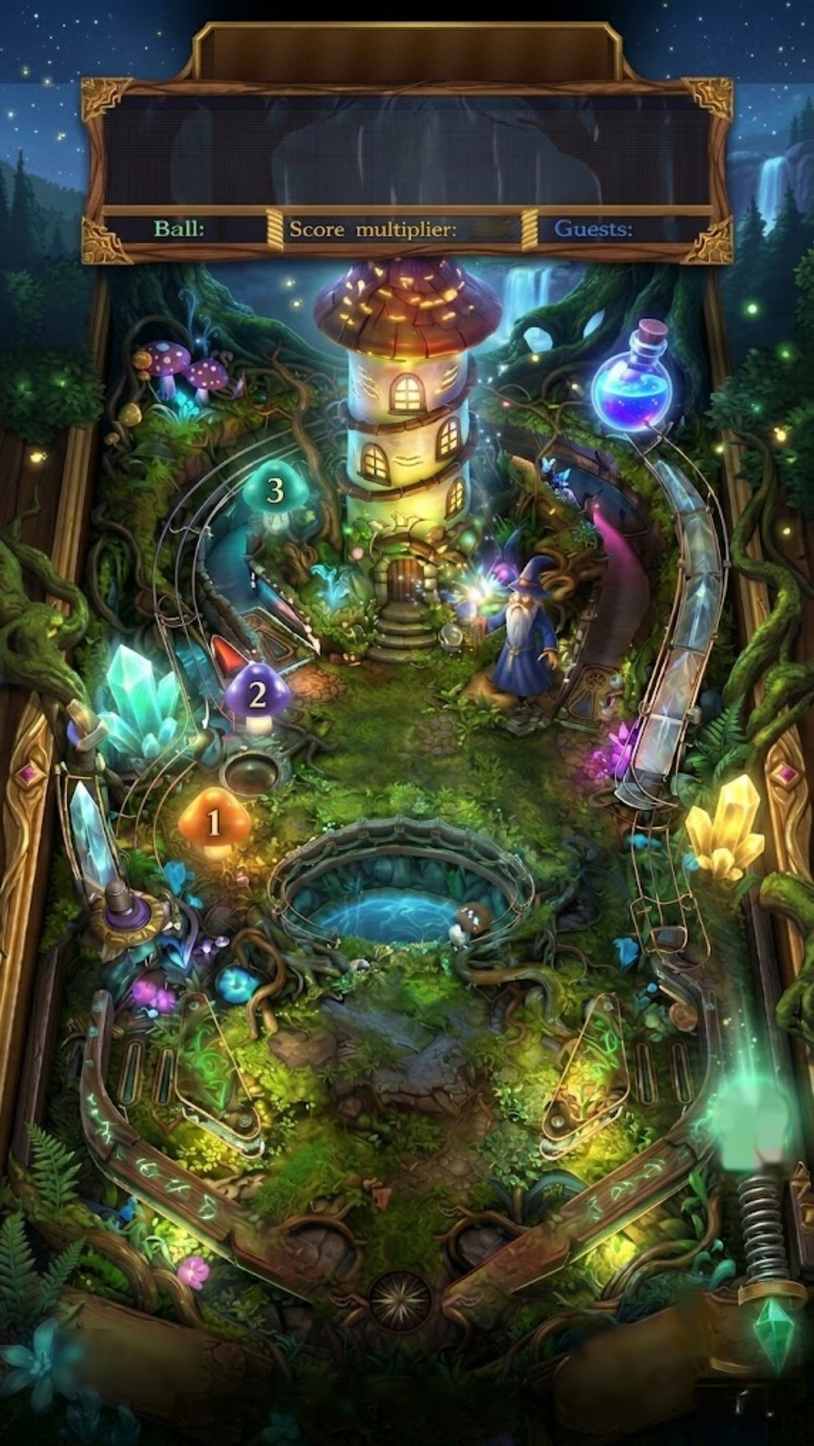
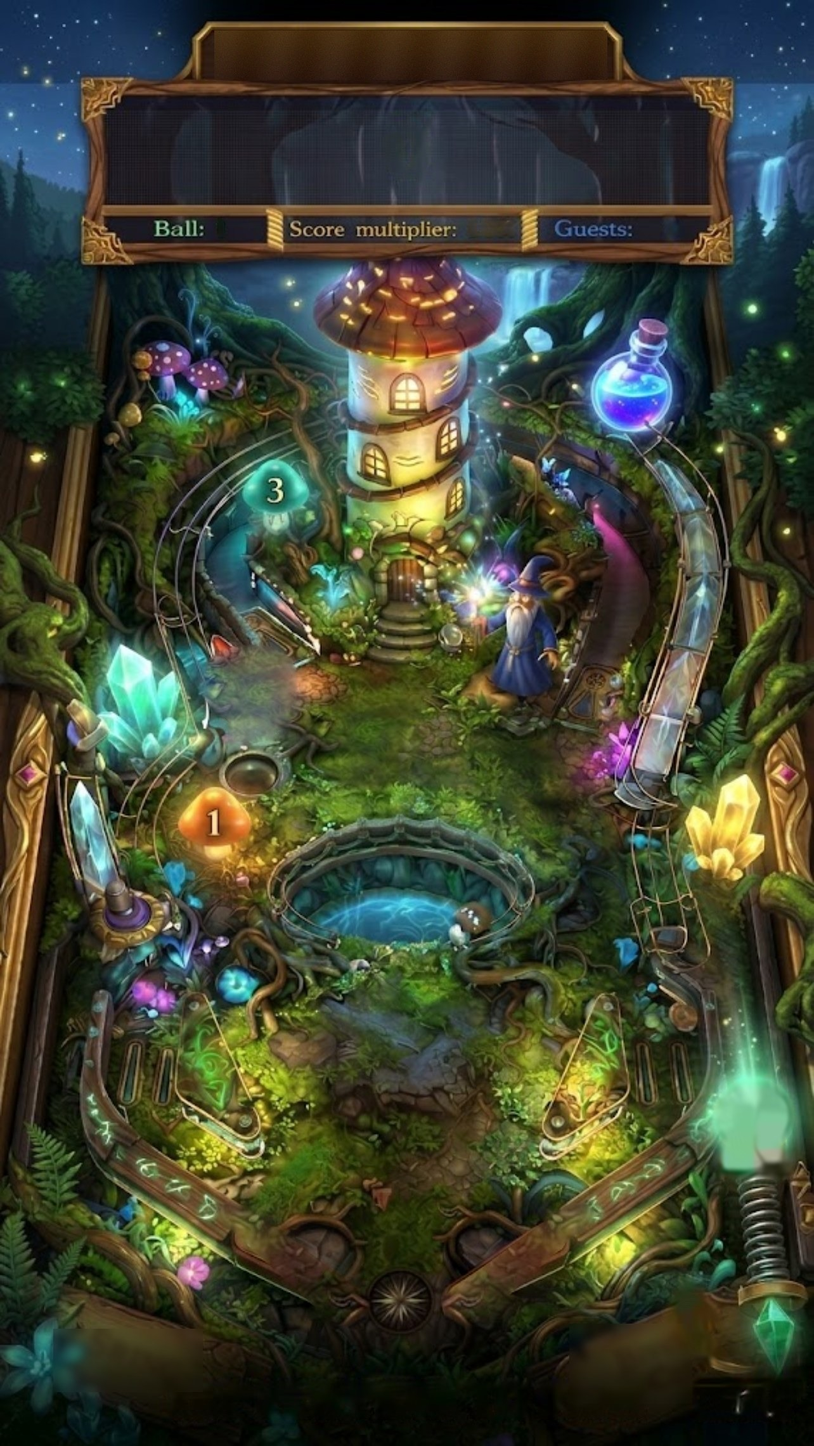
Forest Pinball Saga 1.5.1: table rebalance – mushroom 2 moves to the right
- tools/move_mush2.py: clears the old spot with a seamless clone from the painting, paints a contact
  shadow at the new spot (open stone path between the wizard and the crystal ramp), moves the sprite
- physics circle, glow spot and feature anchor moved with it; attract chase order updated
- dead-spot scan, soak, all 79 tests and the browser smoke test pass; balance: scoop catches 3.3 -> 5.0
  per 10 min (no longer shadowed by mushroom 2), no stuck balls

Claude-Session: https://claude.ai/code/session_016sxfsMBesRzzrKyrMjyWsF

Changed region(s): [[0.2492, 0.4358, 0.3738, 0.5292], [0.6542, 0.5292, 0.7165, 0.5603]]

diff --git a/saga/js/render/sprite-meta.js b/saga/js/render/sprite-meta.js
@@ -1,2 +1,2 @@
-// Generated by tools/prepare_art.py + tools/plunger_art.py – where each cut-out sprite sits in the painting.
-export const SPRITES = {"tower": {"box": [480, 405, 803, 1024], "base": [632, 1010]}, "wizard": {"box": [739, 873, 924, 1124], "base": [850, 1110]}, "mush3": {"box": [378, 712, 493, 846], "base": [440, 835]}, "mush2": {"box": [336, 1031, 455, 1156], "base": [398, 1148]}, "mush1": {"box": [278, 1244, 397, 1382], "base": [337, 1372]}, "crystal1": {"box": [153, 991, 308, 1158], "base": [230, 1150]}, "crystal2": {"box": [1073, 1238, 1210, 1408], "base": [1140, 1400]}, "potion": {"box": [931, 511, 1070, 675], "base": [1000, 665]}, "slingL": {"box": [275, 1555, 422, 1800], "base": [350, 1782]}, "slingR": {"box": [857, 1555, 1004, 1800], "base": [930, 1782]}, "pedestal": {"box": [93, 1217, 204, 1468], "base": [152, 1452]}, "flipper-l": {"box": [348, 1904, 576, 2088]}, "flipper-r": {"box": [704, 1904, 932, 2088]}, "knob": {"box": [1128, 1702, 1251, 1857], "top": 1706}, "spring": {"box": [1154, 1842, 1252, 2032]}};
+// Generated by tools/prepare_art.py + plunger_art.py + move_mush2.py – where each cut-out sprite sits in the painting.
+export const SPRITES = {"tower": {"box": [480, 405, 803, 1024], "base": [632, 1010]}, "wizard": {"box": [739, 873, 924, 1124], "base": [850, 1110]}, "mush3": {"box": [378, 712, 493, 846], "base": [440, 835]}, "mush2": {"box": [821, 1153, 940, 1278], "base": [883, 1270]}, "mush1": {"box": [278, 1244, 397, 1382], "base": [337, 1372]}, "crystal1": {"box": [153, 991, 308, 1158], "base": [230, 1150]}, "crystal2": {"box": [1073, 1238, 1210, 1408], "base": [1140, 1400]}, "potion": {"box": [931, 511, 1070, 675], "base": [1000, 665]}, "slingL": {"box": [275, 1555, 422, 1800], "base": [350, 1782]}, "slingR": {"box": [857, 1555, 1004, 1800], "base": [930, 1782]}, "pedestal": {"box": [93, 1217, 204, 1468], "base": [152, 1452]}, "flipper-l": {"box": [348, 1904, 576, 2088]}, "flipper-r": {"box": [704, 1904, 932, 2088]}, "knob": {"box": [1128, 1702, 1251, 1857], "top": 1706}, "spring": {"box": [1154, 1842, 1252, 2032]}};

diff --git a/saga/sw.js b/saga/sw.js
@@ -1,5 +1,5 @@
 // Forest Pinball Saga – offline support: the whole game (code, painting, sprites, fonts) is cached; cache-first.
-const VERSION = 'forest-saga-1.5.0';
+const VERSION = 'forest-saga-1.5.1';
 const SHELL = ['./', './art/btn-camera.png', './art/btn-pause.png', './art/ext-bottom.jpg', './art/ext-top.jpg', './art/flipper-l.png', './art/flipper-r.png', './art/playfield.jpg', './art/sprites/ball.png', './art/sprites/crystal1.png', './art/sprites/crystal2.png', './art/sprites/knob.png', './art/sprites/spring.png', './art/sprites/mush1.png', './art/sprites/mush2.png', './art/sprites/mush3.png', './art/sprites/pedestal.png', './art/sprites/potion.png', './art/sprites/slingL.png', './art/sprites/slingR.png', './art/sprites/tower.png', './art/sprites/wizard.png', './css/style.css', './fonts/cinzel-700.woff2', './fonts/cinzel-decorative-700.woff2', './fonts/orbitron-800.woff2', './icons/apple-touch-icon.png', './icons/favicon-32.png', './icons/icon-192.png', './icons/icon-512.png', './icons/icon-maskable-512.png', './index.html', './js/audio/audio.js', './js/audio/voice.js', './js/core/artmap.js', './js/core/config.js', './js/core/events.js', './js/core/physics.js', './js/core/progress.js', './js/core/rules.js', './js/core/rules/lanes.js', './js/core/rules/launch.js', './js/core/rules/saga.js', './js/core/rules/scoop.js', './js/core/rules/shots.js', './js/core/rules/ticks.js', './js/core/rules/tower.js', './js/core/sim.js', './js/core/table.js', './js/main.js', './js/render/chapters.js', './js/render/effects.js', './js/render/grade.js', './js/render/layers.js', './js/render/sprite-meta.js', './js/render/stage.js', './js/ui/help.js', './js/ui/hud.js', './js/ui/input.js', './js/ui/journal.js', './js/ui/messages.js', './js/ui/report.js', './js/ui/report-capture.js', './js/ui/sound-hooks.js', './js/ui/voice-hooks.js', './js/ui/hitstop.js', './js/ui/summary.js', './js/ui/tuning.js', './js/vendor/three.module.min.js', './js/version.js', './manifest.webmanifest'];
 
 self.addEventListener('install', (e) => {

diff --git a/saga/js/render/effects.js b/saga/js/render/effects.js
@@ -151,7 +151,7 @@ function fireflies(count) {
 // painted positions (art px) of everything that reacts
 const SPOTS = {
   mush1: { x: 337, y: 1295, r: 120, color: 0xff9a3a },
-  mush2: { x: 395, y: 1078, r: 115, color: 0xb070ff },
+  mush2: { x: 880, y: 1200, r: 115, color: 0xb070ff },
   mush3: { x: 435, y: 765, r: 110, color: 0x40ffd8 },
   crystal1: { x: 230, y: 1080, r: 150, color: 0x60fff0 },
   crystal2: { x: 1140, y: 1320, r: 140, color: 0xffe060 },
@@ -168,7 +168,7 @@ const SPOTS = {
 };
 const DRAGON_RED = 0xff4a1a;
 // attract mode: the lights chase in this order (bottom to top and back), like a real machine waiting for a player
-const ATTRACT = ['slingL', 'slingR', 'kickback', 'kickbackR', 'mush1', 'pool', 'crystal2', 'scoop', 'mush2', 'crystal1', 'wizard', 'rampA', 'mush3', 'potion'];
+const ATTRACT = ['slingL', 'slingR', 'kickback', 'kickbackR', 'mush1', 'pool', 'crystal2', 'mush2', 'scoop', 'crystal1', 'wizard', 'rampA', 'mush3', 'potion'];
 const DRAGON_GLOW = { mush1: 1, mush2: 1, mush3: 1, crystal1: 1, crystal2: 1, potion: 1, wizard: 1, rampA: 1 };
 const RUSH_IDS = ['mush1', 'mush2', 'mush3', 'crystal1', 'crystal2', 'potion'];
 const DOOR = { x: 636, y: 921, w: 64, h: 84 };

diff --git a/saga/js/core/table.js b/saga/js/core/table.js
@@ -91,7 +91,7 @@ export function buildTable() {
   const C = (id, kind, art, r, o = {}) => { const [x, y] = F(art); return { id, kind, x, y, r, e: 0.6, ...o }; };
   const circles = [
     C('mush1', 'element', [337, 1370], 0.95, { e: 0.9, kick: 'bumper' }),
-    C('mush2', 'element', [398, 1146], 0.9, { e: 0.9, kick: 'bumper' }),
+    C('mush2', 'element', [882, 1267], 0.9, { e: 0.9, kick: 'bumper' }), // moved to the right (tools/move_mush2.py)
     C('mush3', 'element', [440, 832], 0.85, { e: 0.9, kick: 'bumper' }),
     C('crystal1', 'element', [232, 1136], 1.0, { e: 0.7 }),
     C('potion', 'element', [1000, 655], 0.85, { e: 0.55 }),

diff --git a/saga/js/core/artmap.js b/saga/js/core/artmap.js
@@ -35,7 +35,7 @@ export const FEATURES = {
   tower: { base: [632, 978, 112, 44], door: [640, 926, 46, 62], roofTop: [632, 428] },
   wizard: { body: [834, 1010, 62, 96], staffOrb: [760, 946] },
   pool: [630, 1408, 212, 96],
-  mushrooms: { mush1: [335, 1300, 56], mush2: [405, 1086, 50], mush3: [432, 770, 46] },
+  mushrooms: { mush1: [335, 1300, 56], mush2: [890, 1208, 50], mush3: [432, 770, 46] },
   crystals: { crystal1: [240, 1084, 72], crystal2: [1142, 1300, 62] },
   potion: [1000, 600, 58],
   kickoutHole: [372, 1226, 42],

diff --git a/saga/index.html b/saga/index.html
@@ -5,7 +5,7 @@
   <meta name="viewport" content="width=device-width, initial-scale=1, maximum-scale=1, user-scalable=no, viewport-fit=cover">
   <title>Forest Pinball Saga</title>
   <meta name="theme-color" content="#05070a">
-  <meta name="app-version" content="1.5.0">
+  <meta name="app-version" content="1.5.1">
   <meta name="apple-mobile-web-app-capable" content="yes">
   <meta name="mobile-web-app-capable" content="yes">
   <meta name="apple-mobile-web-app-status-bar-style" content="black-translucent">

diff --git a/saga/js/version.js b/saga/js/version.js
@@ -1,2 +1,2 @@
 // App version (bumped on every delivered update).
-export const APP_VERSION = '1.5.0';
+export const APP_VERSION = '1.5.1';

diff --git a/saga/tools/move_mush2.py b/saga/tools/move_mush2.py
@@ -1,0 +1,47 @@
+"""Rebalance the table: move mushroom 2 from the crowded left side to the open stone path on the right
+(between the wizard and the crystal ramp). Run once, after prepare_art.py and plunger_art.py.
+
+- clears the old spot in playfield.jpg with a nearby patch of the painting (seamless clone, no smudge)
+- paints a soft contact shadow at the new spot (the mushroom sprite itself is drawn live on top)
+- moves the mush2 sprite box/base in sprites.json + sprite-meta.js
+
+Usage: python3 move_mush2.py <artdir>
+"""
+import sys, json
+import numpy as np, cv2
+from PIL import Image
+
+out = sys.argv[1]
+NEW_CENTRE = (880, 1215)  # where the mushroom sprite is centred now (painting pixels)
+PATCH_OFFSET = (170, 60)  # take the fill from this far right/down of the old spot (grass and stones)
+
+meta_path = f'{out}/sprites/sprites.json'
+meta = json.load(open(meta_path))
+old = meta['mush2']
+b = old['box']
+pf = cv2.imread(f'{out}/playfield.jpg')
+alpha = np.array(Image.open(f'{out}/sprites/mush2.png').split()[-1])
+mask = np.zeros(pf.shape[:2], np.uint8)
+mask[b[1]:b[1] + alpha.shape[0], b[0]:b[0] + alpha.shape[1]] = (alpha > 8).astype(np.uint8) * 255
+mask = cv2.dilate(mask, np.ones((35, 35), np.uint8))  # include its glow
+ys, xs = np.where(mask > 0)
+x0, y0, x1, y1 = xs.min() - 4, ys.min() - 4, xs.max() + 5, ys.max() + 5
+dx, dy = PATCH_OFFSET
+pf = cv2.seamlessClone(pf[y0 + dy:y1 + dy, x0 + dx:x1 + dx].copy(), pf, mask[y0:y1, x0:x1], ((x0 + x1) // 2, (y0 + y1) // 2), cv2.NORMAL_CLONE)
+
+# contact shadow under the new spot
+w, h = b[2] - b[0], b[3] - b[1]
+nb = [NEW_CENTRE[0] - w // 2, NEW_CENTRE[1] - h // 2]
+nb += [nb[0] + w, nb[1] + h]
+base = [old['base'][0] - b[0] + nb[0], old['base'][1] - b[1] + nb[1]]
+shadow = np.zeros(pf.shape[:2], np.float32)
+cv2.ellipse(shadow, (base[0], base[1] - 2), (52, 14), 0, 0, 360, 1.0, -1)
+shadow = cv2.GaussianBlur(shadow, (0, 0), 8) * 0.55
+pf = (pf.astype(np.float32) * (1 - shadow[..., None])).astype(np.uint8)
+cv2.imwrite(f'{out}/playfield.jpg', pf, [cv2.IMWRITE_JPEG_QUALITY, 92])
+
+meta['mush2'] = {'box': nb, 'base': base}
+json.dump(meta, open(meta_path, 'w'), indent=1)
+with open(f'{out}/../js/render/sprite-meta.js', 'w') as fh:
+    fh.write('// Generated by tools/prepare_art.py + plunger_art.py + move_mush2.py – where each cut-out sprite sits in the painting.\nexport const SPRITES = ' + json.dumps(meta) + ';\n')
+print('mush2 moved: box', nb, 'base', base)
